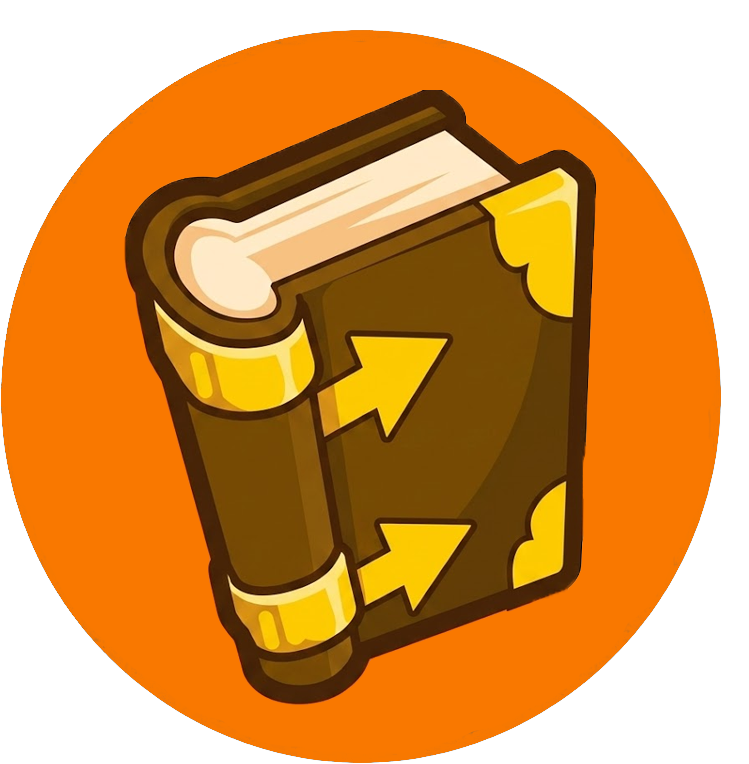
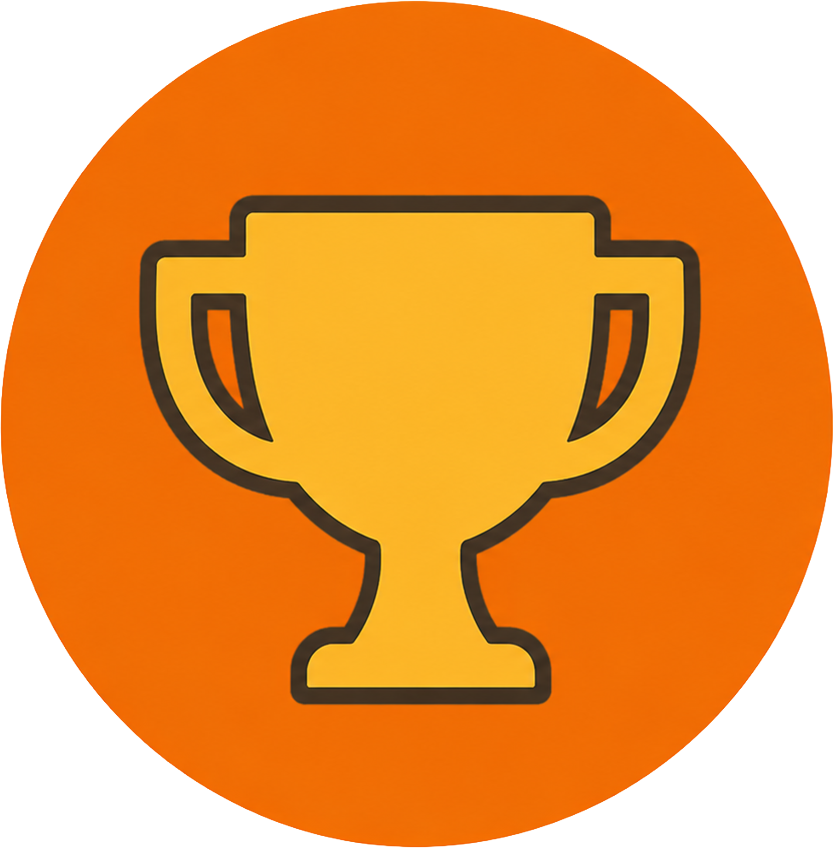
Icônes Menu/Recommencer sur la carte ; retour à l'accueil depuis la sélection
Les assets Menu.png et Recommencer.png remplacent 🏠 et ↻ (le 👥 attend
son asset). L'écran de choix d'équipe gagne un bouton retour : la
sélection est annulable et ramène au lobby.

diff --git a/src/ui.ts b/src/ui.ts
@@ -388,6 +388,8 @@ const MENU_INVENTAIRE = A("/assets/menu/Inventaire.png");
 const MENU_BESTIAIRE = A("/assets/menu/bestiaires.png");
 const MENU_PARAM = A("/assets/menu/parametres.png");
 const MENU_SUCCES = A("/assets/menu/succes.png");
+const MENU_ACCUEIL = A("/assets/menu/Menu.png");
+const MENU_RESTART = A("/assets/menu/Recommencer.png");
 const MENU_DOFUS = A("/assets/menu/dofus.png");
 const ICON_KAMAS = A("/assets/divers/kamas.png");
 const ICON_VITA = A("/assets/divers/coeur.png");
@@ -1088,7 +1090,7 @@ const classe_img = (classeId: string): string =>
   A(CLASSES[classeId]?.img ?? `/assets/classes/${classeId}.png`);
 
 /** Écran de départ : choisir 2 classes parmi les classes jouables pour commencer la run. */
-export function showChoixEquipe(): Promise<string[]> {
+export function showChoixEquipe(): Promise<string[] | null> {
   return new Promise((res) => {
     const choix: string[] = [];
     const draw = () => {
@@ -1100,6 +1102,7 @@ export function showChoixEquipe(): Promise<string[]> {
         <p class="sous-titre">Choisis <b>2 classes</b> pour commencer. Tu pourras en recruter d'autres dans les tavernes (équipe de 4 max).</p>
         <div class="choix-grille">${cartes}</div>
         <div class="boutons-ecran">
+          <button id="choix-retour" class="aside-icone" title="Retour à l'accueil"><img src="${MENU_ACCUEIL}" alt="Accueil" onerror="this.remove()" /></button>
           <button id="choix-go" class="btn-jouer" title="Jouer" ${choix.length === 2 ? "" : "disabled"}><img src="${BTN_JOUER}" alt="Jouer" onerror="this.remove()" /></button>
           <span class="choix-compte">${choix.length}/2</span>
         </div>
@@ -1118,6 +1121,7 @@ export function showChoixEquipe(): Promise<string[]> {
       document.getElementById("choix-go")?.addEventListener("click", () => {
         if (choix.length === 2) res([...choix]);
       });
+      document.getElementById("choix-retour")?.addEventListener("click", () => res(null));
     };
     draw();
   });
@@ -2318,8 +2322,8 @@ Butin au taux donjon.`)}"` : "";
               <button id="carte-bestiaire" class="aside-icone" title="Bestiaire"><img src="${MENU_BESTIAIRE}" alt="Bestiaire" onerror="this.remove()" /></button>
               <button id="carte-dofus" class="aside-icone" title="Dofus"><img src="${MENU_DOFUS}" alt="Dofus" onerror="this.remove()" /></button>
               <span class="topbar-sep"></span>
-              <button id="carte-accueil" class="aside-icone aside-emoji" title="Retour à l'accueil (la run reste sauvegardée)">🏠</button>
-              <button id="carte-restart" class="aside-icone aside-emoji" title="Recommencer avec les mêmes héros (abandonne la run en cours)">↻</button>
+              <button id="carte-accueil" class="aside-icone" title="Retour à l'accueil (la run reste sauvegardée)"><img src="${MENU_ACCUEIL}" alt="Accueil" onerror="this.remove()" /></button>
+              <button id="carte-restart" class="aside-icone" title="Recommencer avec les mêmes héros (abandonne la run en cours)"><img src="${MENU_RESTART}" alt="Recommencer" onerror="this.remove()" /></button>
               <button id="carte-restart-choix" class="aside-icone aside-emoji" title="Recommencer en choisissant d'autres héros (abandonne la run en cours)">👥</button>
             </div>
           </header>

diff --git a/src/main.ts b/src/main.ts
@@ -241,6 +241,7 @@ async function jouerRun(reprise: RunSauvee | null, choixImpose?: string[]): Prom
     depart = reprise.zoneIdx;
   } else {
     const choix = choixImpose ?? (await ui.showChoixEquipe());
+    if (!choix) return null; // retour à l'accueil depuis la sélection
     run = nouvelleRun(choix);
   }
   const zones = zonesDeTranche(TRANCHES.find((t) => t.active)!); // une run = une tranche